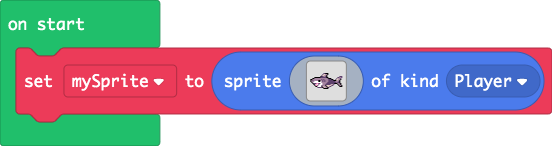
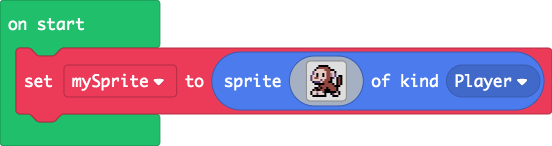
Update main.blocks, main.ts

Changed region(s): [[0.5543, 0.4384, 0.6467, 0.6849]]

diff --git a/main.ts b/main.ts
@@ -1,18 +1,18 @@
 let mySprite = sprites.create(img`
-. . . . . . . . . . . . . c c f f f . . . . . . . . . . . . . . 
-. . . . . . . . . . . . c d d b b f . . . . . . . . . . . . . . 
-. . . . . . . . . . . c d d b b f . . . . . . . . . . . . . . . 
-. . . . . . . . . . f c c b b c f . . . . . . . . . . . . c c c 
-. . . . f f f f f f c c c c c c f f . . . . . . . . . c c b b c 
-. . f f b b b b b b b b b b b b b c f f f . . . . . c d b b c . 
-f f b b b b b b b b b c b c b b b b c c c f f . . c d d b b f . 
-f b c b b b b b f f b b c b c b b b c c c c c f f f d b b f . . 
-f b b b 1 1 1 1 f f 1 b c b c b b b c c c c c c c b b b c f . . 
-. f b 1 1 1 1 1 1 1 1 b b b b b b c c c c c c c c c b c c f . . 
-. . f c c c 3 3 c c 1 1 b b b b c c c c c c c c f f f b b c f . 
-. . . f c 1 3 1 c 1 1 1 b b b c c c c c b d b c . . . f b b f . 
-. . . . f 3 3 c 1 1 1 c b b b f d d d d d c c . . . . . f b b f 
-. . . . . f f 1 1 1 1 f b d b b f d d c c . . . . . . . . f f f 
-. . . . . . . c c c c c f b d b b f c . . . . . . . . . . . . . 
-. . . . . . . . . . . . . f f f f f . . . . . . . . . . . . . . 
+. . . . f f f f f . . . . . . . 
+. . . f e e e e e f . . . . . . 
+. . f d d d d e e e f f . . . . 
+. c d d d d d d e e d d f . . . 
+. c d f d d f d e e b d c . . . 
+c d d f d d f d e e b d c . f f 
+c d e e d d d d e e f c . f e f 
+c d d d d c d e e e f . . f e f 
+. f c c c d e e e f f . . f e f 
+. . f f f f f e e e e f . f e f 
+. . . . f e e e e e e e f f f . 
+. . f f e f e e f e e e e f . . 
+. f e f f e e f f f e e e f . . 
+f d d b d d c f f f f f f b f . 
+f d d c d d d f . . f c d d f . 
+. f f f f f f f . . . f f f . . 
 `, SpriteKind.Player)
